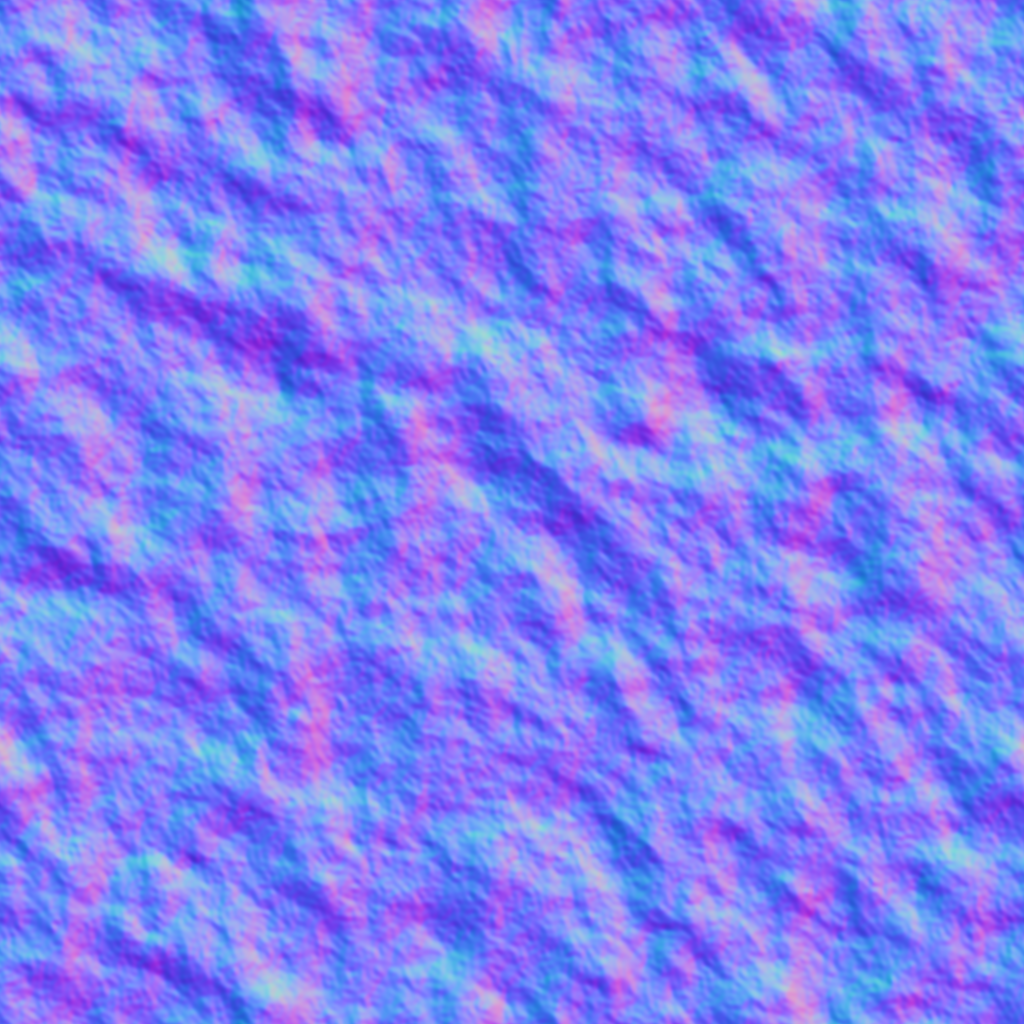
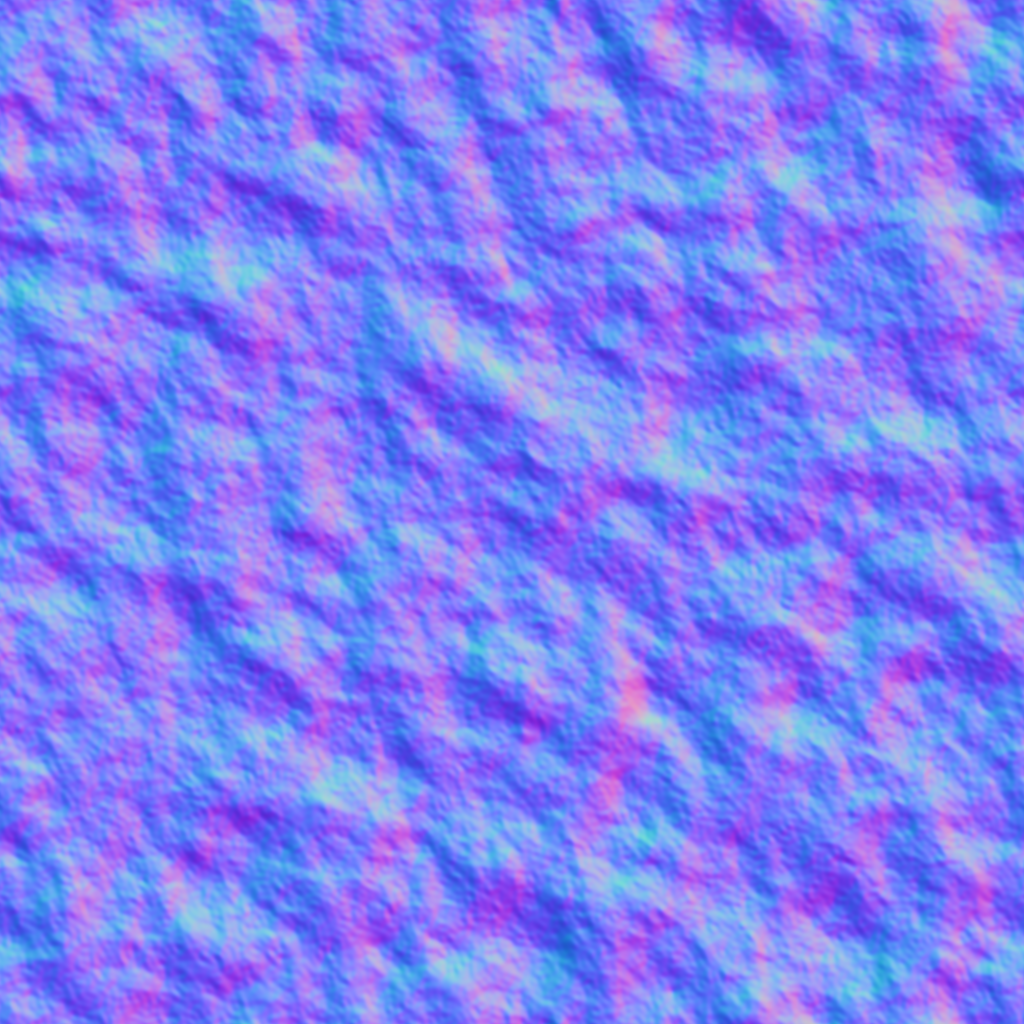
refactor(environment): build tileable noise on Unity.Mathematics pnoise and regenerate the environment textures

diff --git a/Packages/com.hyperrts.engine/Editor/Environment/TileableNoise.cs b/Packages/com.hyperrts.engine/Editor/Environment/TileableNoise.cs
@@ -1,12 +1,13 @@
+using Unity.Mathematics;
 using UnityEngine;
 using Random = Unity.Mathematics.Random;
 
 namespace HyperRTS.Editor.Environment
 {
-    /// <summary>Gradient noise, fBm and lowpassed white noise that repeat seamlessly across their tile.</summary>
+    /// <summary>Perlin noise, fBm and lowpassed white noise that repeat seamlessly across their tile.</summary>
     public static class TileableNoise
     {
-        /// <summary>Octaves of gradient noise, each twice as fine and half as strong; roughly -1..1.</summary>
+        /// <summary>Octaves of periodic Perlin noise, each twice as fine and half as strong; roughly -1..1.</summary>
         public static float Fbm(Vector2 position, int period, int octaves, int seed)
         {
             var sum = 0f;
@@ -14,10 +15,10 @@ namespace HyperRTS.Editor.Environment
             var amplitude = 1f;
             for (var octave = 0; octave < octaves; octave++)
             {
-                // Gradient noise is zero on its lattice; shifting each octave keeps those zeros from lining up into a
-                // visible grid (any constant shift still tiles).
-                var shift = new Vector2(0.618f, 0.382f) * octave;
-                sum += Gradient(position + shift, period, seed + octave * 1013) * amplitude;
+                // Perlin noise is zero on its lattice, so each octave gets its own shift to keep those zeros from lining
+                // up into a grid; a whole-cell shift still repeats at the period.
+                var shift = new float2(0.618f * octave + seed * 5 + octave * 13, 0.382f * octave + seed * 11 + octave * 29);
+                sum += noise.pnoise(new float2(position.x, position.y) + shift, new float2(period, period)) * amplitude;
                 total += amplitude;
                 position *= 2f;
                 period *= 2;
@@ -25,19 +26,6 @@ namespace HyperRTS.Editor.Environment
             }
 
             return sum / total;
-        }
-
-        /// <summary>Perlin gradient noise at a point in lattice cells; roughly -1..1.</summary>
-        public static float Gradient(Vector2 position, int period, int seed)
-        {
-            var x = Mathf.FloorToInt(position.x);
-            var y = Mathf.FloorToInt(position.y);
-            var local = position - new Vector2(x, y);
-            var bottom = Mathf.Lerp(Corner(x, y, local, period, seed), Corner(x + 1, y, local - Vector2.right, period, seed),
-                Fade(local.x));
-            var top = Mathf.Lerp(Corner(x, y + 1, local - Vector2.up, period, seed),
-                Corner(x + 1, y + 1, local - Vector2.one, period, seed), Fade(local.x));
-            return Mathf.Lerp(bottom, top, Fade(local.y)) * Mathf.Sqrt(2f);
         }
 
         /// <summary>Box-blurs a square field in place twice (close to a Gaussian), wrapping around so it still tiles.</summary>
@@ -193,22 +181,6 @@ namespace HyperRTS.Editor.Environment
             }
         }
 
-        private static float Corner(int x, int y, Vector2 offset, int period, int seed)
-        {
-            var angle = Hash(Wrap(x, period), Wrap(y, period), seed) * (Mathf.PI * 2f / uint.MaxValue);
-            return Mathf.Cos(angle) * offset.x + Mathf.Sin(angle) * offset.y;
-        }
-
-        private static uint Hash(int x, int y, int seed)
-        {
-            var hash = (uint)x * 0x8DA6B343u ^ (uint)y * 0xD8163841u ^ (uint)seed * 0xCB1AB31Fu;
-            hash ^= hash >> 13;
-            hash *= 0x5BD1E995u;
-            return hash ^ (hash >> 15);
-        }
-
         private static int Wrap(int value, int period) => (value % period + period) % period;
-
-        private static float Fade(float t) => t * t * t * (t * (t * 6f - 15f) + 10f);
     }
 }

diff --git a/Packages/com.hyperrts.engine/Editor/Tests/Tools/AssetPipelineTests.cs b/Packages/com.hyperrts.engine/Editor/Tests/Tools/AssetPipelineTests.cs
@@ -49,6 +49,15 @@ namespace HyperRTS.Editor.Tests.Tools
         }
 
         [Test]
+        public void FbmRepeatsAtItsPeriod()
+        {
+            var point = new Vector2(0.37f, 1.21f);
+
+            Assert.That(TileableNoise.Fbm(point + Vector2.right * 4f, 4, 4, 3), Is.EqualTo(TileableNoise.Fbm(point, 4, 4, 3)).Within(1e-4f));
+            Assert.That(TileableNoise.Fbm(point + Vector2.up * 4f, 4, 4, 3), Is.EqualTo(TileableNoise.Fbm(point, 4, 4, 3)).Within(1e-4f));
+        }
+
+        [Test]
         public void TerrainSelectorIsUniform_AndBrightnessCentresOnHalf()
         {
             var below = _terrain.Count(t => t.x < 0.25f) / (float)_terrain.Length;
